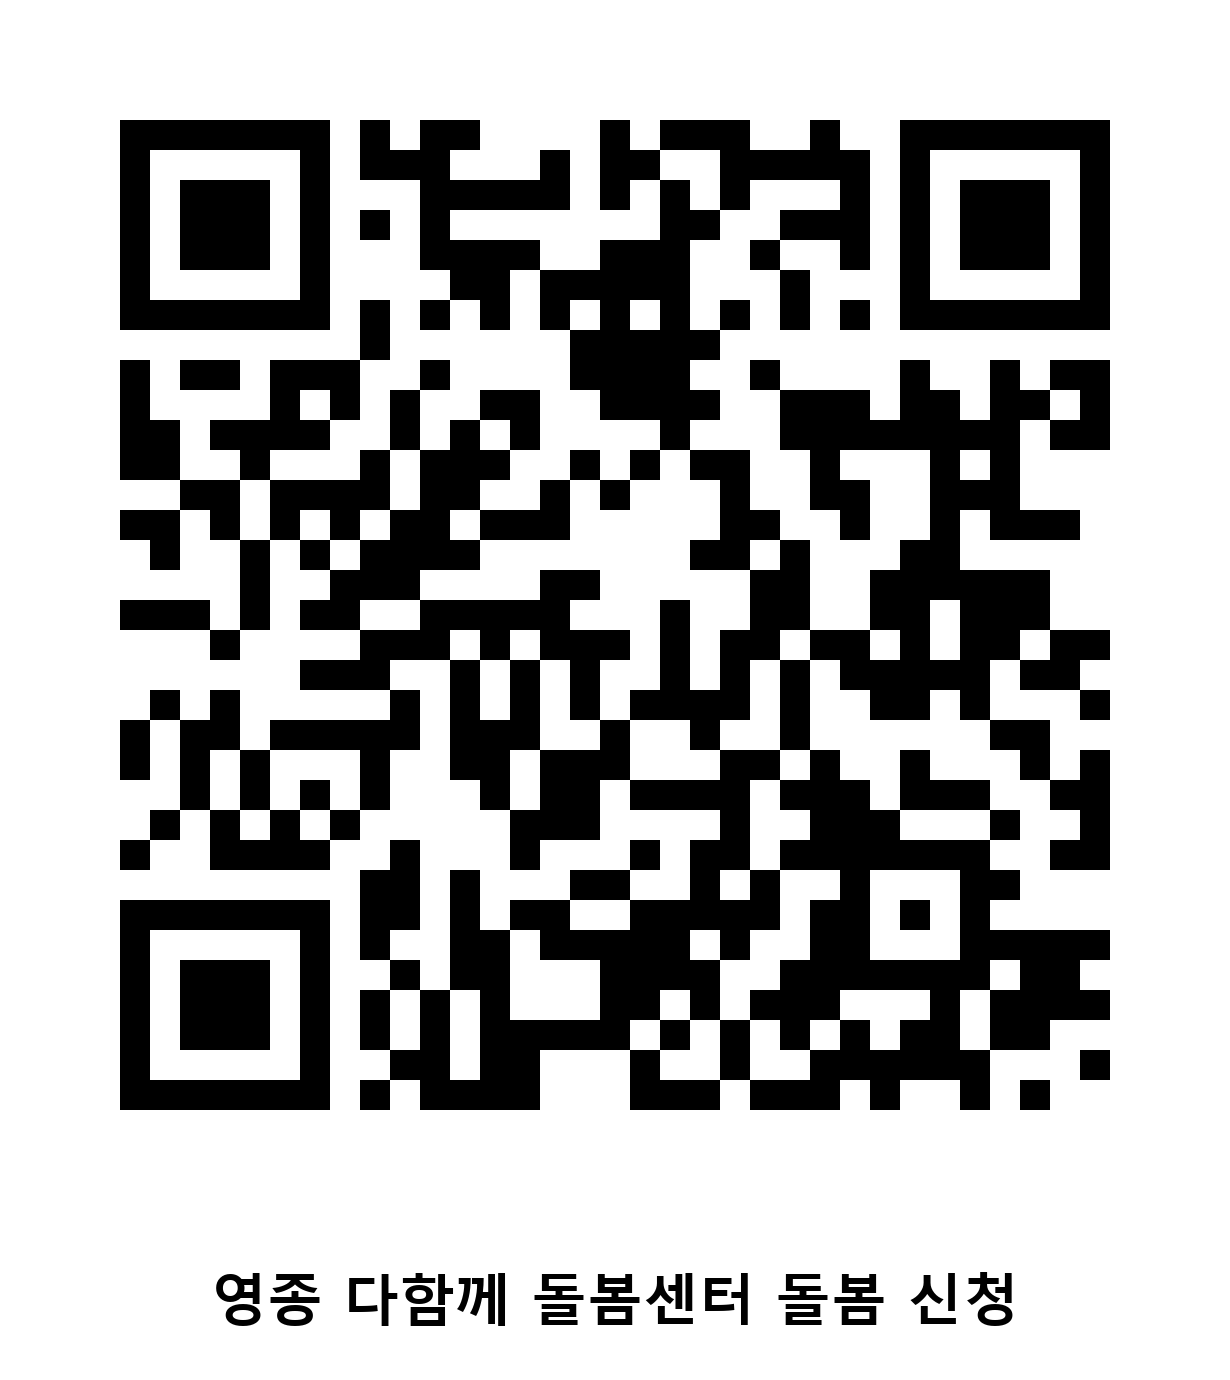
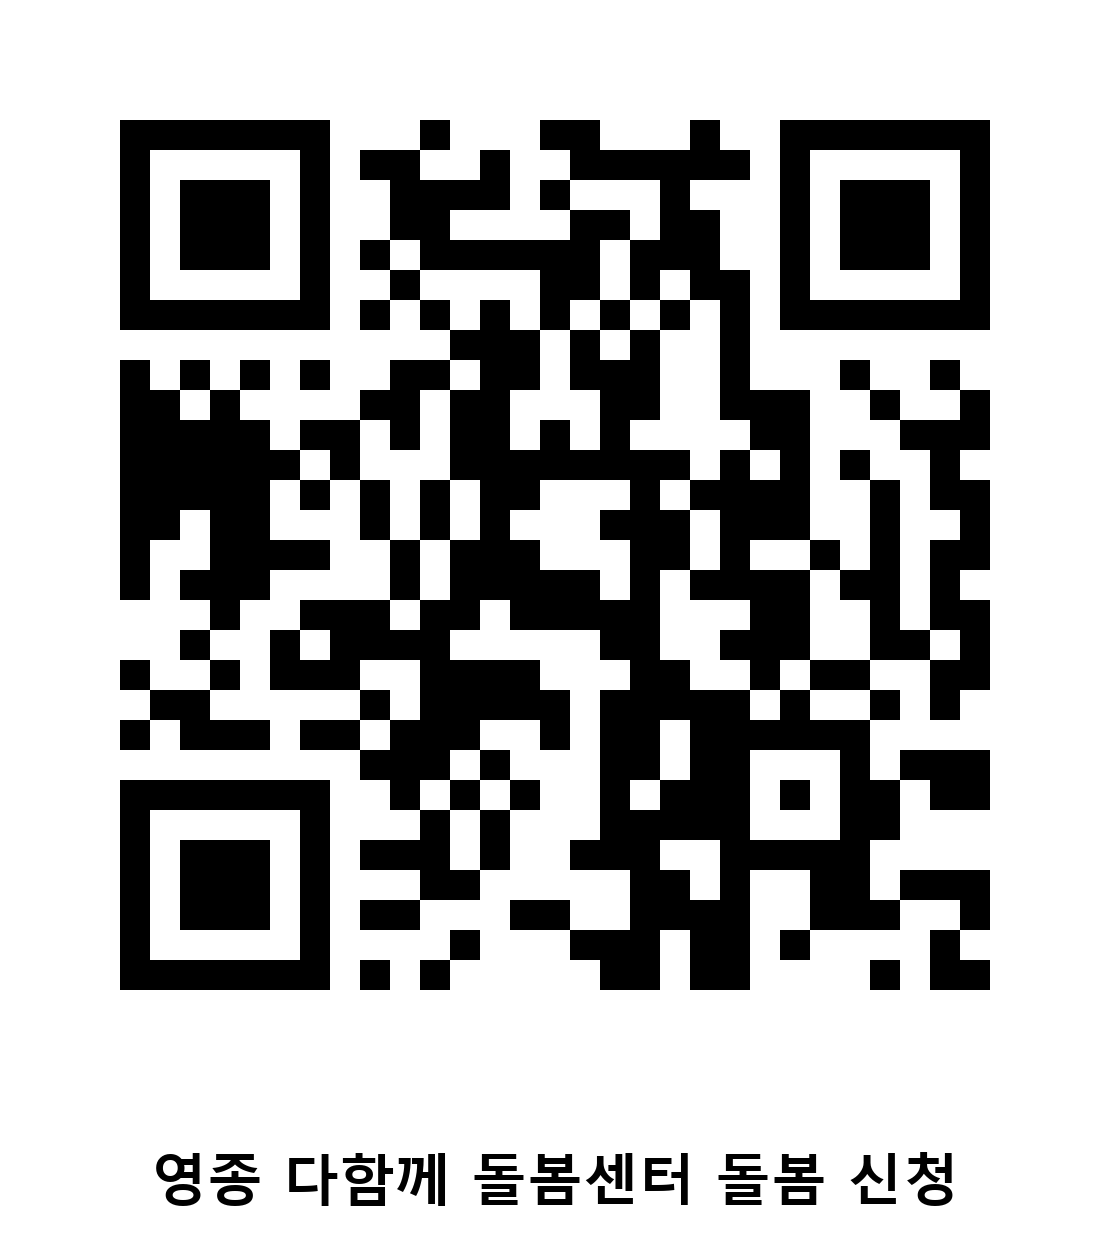
주소를 yeongjong-togethercare.github.io 로 변경
저장소를 조직 YeongJong-TogetherCare 로 옮김. QR 다시 생성.

Claude-Session: https://claude.ai/code/session_01SLvPmAuUQmhZFMg1RRuJpa

diff --git a/build_site.py b/build_site.py
@@ -8,7 +8,7 @@ import qrcode
 from PIL import Image, ImageDraw, ImageFont
 
 ROOT = os.path.dirname(os.path.abspath(__file__))
-SITE = 'https://park-hyun-su.github.io/dahamkke-dolbom/'
+SITE = 'https://yeongjong-togethercare.github.io/'
 LINKTREE = 'https://linktr.ee/YeongJong_Together_Care_Center'
 FORM = 'https://docs.google.com/forms/d/e/1FAIpQLSfJHSxFiwpyxkl7W1CWkbjg26NQrutEgFMD_qZciQFK3CMH-A/viewform'
 ENTRY = 'entry.1460899233'

diff --git a/README.md b/README.md
@@ -1,3 +1,6 @@
-# 다함께돌봄 신청 안내
+# 영종 다함께 돌봄센터 신청 안내
 
-8·9·10호점 홍보지와 구글폼 신청으로 연결되는 안내 페이지, 호점별 QR 코드.
+https://yeongjong-togethercare.github.io/
+
+홍보 전단지 → 8·9·10호점 위치 → 「신청하고 싶어요」 → 호점이 미리 체크된 구글폼.
+페이지와 QR은 build_site.py 로 다시 만든다. 전단지는 flyers/main.*
